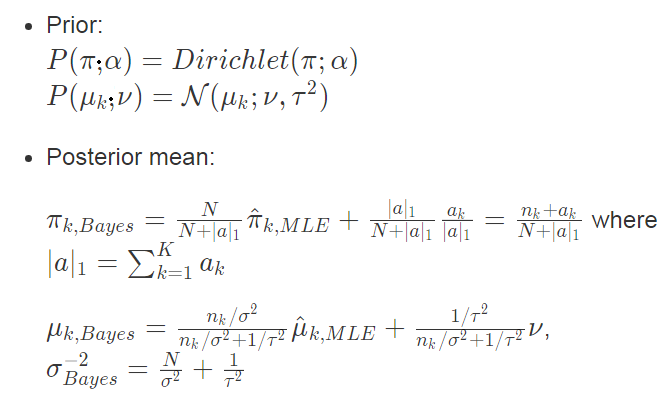
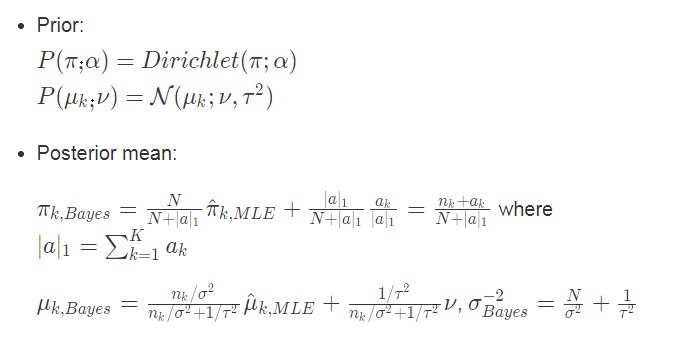
p

diff --git a/_posts/BookNote/_posts/2019-03-25-math-10708L5.md b/_posts/BookNote/_posts/2019-03-25-math-10708L5.md
@@ -553,15 +553,21 @@ $$y_{n,k}$$表示第$$n$$个实例$$y$$的第$$k$$维取值
 
 $$x$$是一个条件高斯变量，具有特定于类的平均值：
 
-$$p(x_{n}\mid y_{n,k}=1,\mu,\sigma)=\frac{1}{\sqrt{2\pi \sigma^2}exp\{-frac{1}{2 \sigma^2}(x_{n}-\mu_{k})^2\}$$   
+$$p(x_{n}\mid y_{n,k}=1,\mu,\sigma)=\frac{1}{\sqrt{2\pi \sigma^2}}exp\{-frac{1}{2 \sigma^2}(x_{n}-\mu_{k})^2\}$$   
 
 ![_config.yml]({{ site.baseurl }}/images/10708/image125.png)  
 
-**条件高斯极大似然估计**  
+**条件高斯的极大似然估计**  
 
 ![_config.yml]({{ site.baseurl }}/images/10708/image126.png)    
 
 ![_config.yml]({{ site.baseurl }}/images/10708/image127.png)  
+
+**条件高斯的贝叶斯估计** 
+
+![_config.yml]({{ site.baseurl }}/images/10708/image128.png)  
+
+![_config.yml]({{ site.baseurl }}/images/10708/image129.png)  
 
 ## 线性回归(Linear Regression)   
 
